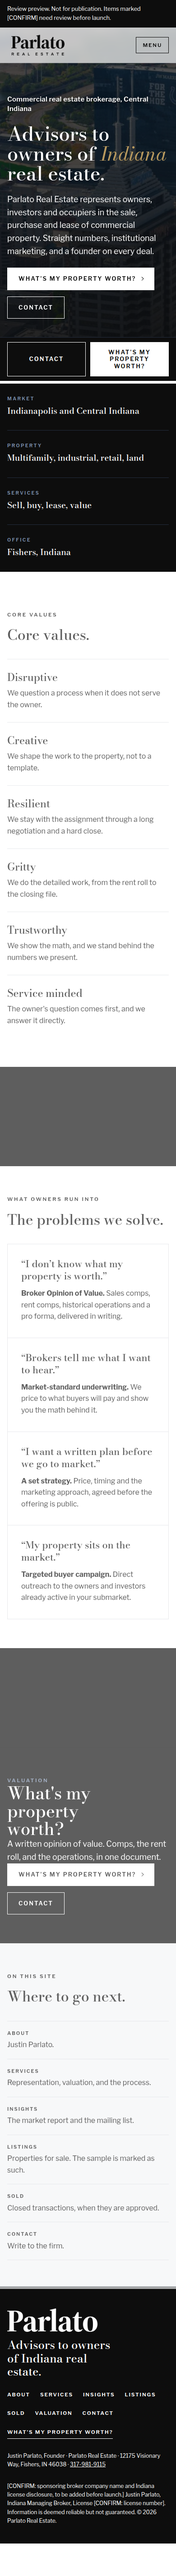
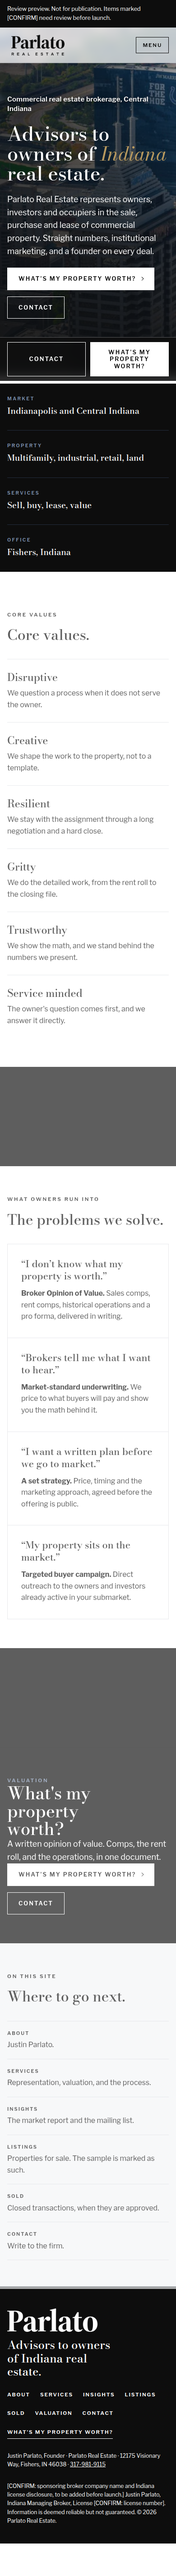
Lighten the hero scrim and frost the caption and mobile bar.
The photograph shows through a lighter wash, with the dark kept behind the type. The portrait caption and the mobile action bar use the same frosted treatment. Forms, the footer, and the map stay solid.

Changed region(s): [[0.8308, 0.0, 1.0, 0.0936], [0.6154, 0.1247, 0.8308, 0.1559], [0.7385, 0.0312, 0.7692, 0.0624]]

diff --git a/css/styles.css b/css/styles.css
@@ -353,7 +353,9 @@ p { margin: 0; }
   position: absolute;
   left: 0;
   bottom: 18px;
-  background: var(--white);
+  background: rgba(255, 255, 255, 0.82);
+  -webkit-backdrop-filter: blur(8px);
+  backdrop-filter: blur(8px);
   color: var(--black);
   font: 600 0.66rem/1 var(--sans);
   letter-spacing: 0.18em;
@@ -981,11 +983,16 @@ input:focus, select:focus, textarea:focus {
   right: 0;
   bottom: 0;
   z-index: 60;
-  background: var(--black);
+  background: rgba(13, 13, 13, 0.82);
+  -webkit-backdrop-filter: blur(12px);
+  backdrop-filter: blur(12px);
   color: var(--white);
-  border-top: 1px solid var(--navy);
+  border-top: 1px solid rgba(220, 222, 227, 0.35);
   padding: 10px 16px calc(10px + env(safe-area-inset-bottom, 0px));
   gap: 10px;
+}
+@supports not ((backdrop-filter: blur(12px)) or (-webkit-backdrop-filter: blur(12px))) {
+  .cta-bar { background: rgba(13, 13, 13, 0.94); }
 }
 .cta-bar .btn { flex: 1 1 0; padding: 14px 12px; text-align: center; }
 @media (max-width: 960px) {
@@ -1079,8 +1086,20 @@ img[src*="banner-indy-downtown"] { object-position: center 17%; }
   align-items: flex-end;
   justify-content: flex-start;
   width: 100%;
-  background: linear-gradient(to top, rgba(13, 13, 13, 0.92) 0%, rgba(13, 13, 13, 0.8) 46%, rgba(13, 13, 13, 0.68) 100%);
+  background: linear-gradient(to top, rgba(13, 13, 13, 0.86) 0%, rgba(13, 13, 13, 0.55) 52%, rgba(13, 13, 13, 0.28) 100%);
   padding: 0 0 76px;
+}
+.hero-photo .hero-copy { position: relative; isolation: isolate; }
+.hero-photo .hero-copy::before {
+  content: "";
+  position: absolute;
+  z-index: -1;
+  left: -8%;
+  right: -6%;
+  top: -14%;
+  bottom: -10%;
+  pointer-events: none;
+  background: linear-gradient(90deg, rgba(13, 13, 13, 0.62) 0%, rgba(13, 13, 13, 0.38) 64%, rgba(13, 13, 13, 0) 100%);
 }
 .hero-kicker {
   color: #fff;

diff --git a/DESIGN-AUDIT.md b/DESIGN-AUDIT.md
@@ -81,3 +81,22 @@ A 3 on the listings and sold heroes is the short type band. A tall photograph th
 - Services no longer repeats one photograph inside a single page.
 - The About portrait column is wider.
 - Mobile hero text clears the sticky Contact / valuation bar.
+
+## Translucency pass
+
+Checked after the header became a uniform 70 percent white bar. The benchmark is the quiet overlays on Verti, INV, Xmark, Ellsbury, and Merrill: a photograph stays visible, and type sits on a darker or frosted patch only where it needs to. Each item below was looked at on desktop and, where it appears, on a phone.
+
+| Place | Pages | Changed | Reason |
+| --- | --- | --- | --- |
+| Header bar | All | Already done | Uniform translucent white. Not changed again in this pass. |
+| Hero scrim | Home, About, Services, Insights, Contact, Valuation | Yes | The wash was nearly opaque across the whole photograph. It is lighter over the picture and darker only behind the type. The home line stays at 8.7:1 on desktop and 5.4:1 on a phone. |
+| Portrait caption | About | Yes | The name chip is frosted white over the headshot. Black type on that chip stays above 4.5:1. |
+| Mobile action bar | All, under 960px | Yes | Frosted black with a light blur, matching the header. The buttons stay solid, so the labels stay white on a dark ground. |
+| Preview notice | All | No | It has to read as a warning. A tint would weaken it. |
+| Fact strip | Home | No | It is its own black band, not a layer on a photograph. |
+| Valuation close and other black bands | Home, Contact, Valuation | No | White type on black is the brand. A tint would drop that contrast. |
+| Footer | All | No | Same reason. It does not sit on a photograph. |
+| Forms and fields | Contact, Valuation | No | Labels and inputs need a steady ground. |
+| Filters, cards, status chips, map | Listings, Sold | No | The map is the content. A frosted sheet over it would hide the pins. The cards already sit on white. |
+| Rules | All | No | They are already Rule Grey. Thinner opacity would lose the divider. |
+| Gold | Home headline | No | One gold word per view. Nothing else was tinted gold. |

diff --git a/CHANGES.md b/CHANGES.md
@@ -15,6 +15,7 @@ The site is now separate pages. Navigation order is About, Services, Insights, L
 - The home hero still includes the flagged line "A founder on every deal." It is kept on purpose and listed under Claims flagged for verification.
 - The header is one translucent white bar, rgba(255, 255, 255, 0.7), with a 10px blur and a faint Rule Grey edge. On a photo hero the photograph starts under that bar. After a scroll the bar goes to 0.9 so type underneath stays quiet. The open mobile menu stays solid white. The logo and navigation stay black.
 - The home line "Commercial real estate brokerage, Central Indiana" is 18px on desktop and 15px on a phone, Libre Franklin 600, white, with a darker lower-left scrim and a soft shadow.
+- The hero scrim is lighter across the photograph and darker only behind the type. The portrait caption is frosted white. The mobile action bar is frosted black. Forms, the footer, and the map stay solid so the type stays readable.
 - Design re-audit is in `DESIGN-AUDIT.md`. About, Contact, and Valuation open on a short photograph. Listing cards are photo first. An empty Sold page does not draw a map or a building photograph. The Services page no longer repeats the same photograph in one view.
 - Photo spots stay marked [PLACEHOLDER PHOTO: replace with Parlato photography] and are credited in `images/CREDITS.md`. The home hero, the downtown banner, and the grid banner are Joseph Surak's own Indianapolis aerials, not stock. The grid crop keeps the street grid and keeps the stadium and team signage from dominating. Monument Circle and the other tiles stay licensed stand-ins. The headshot stays grayscale.
 - The contact form posts to `functions/api/contact.js`. With no env vars it returns "not configured," and the page shows "Preview only, not connected."
